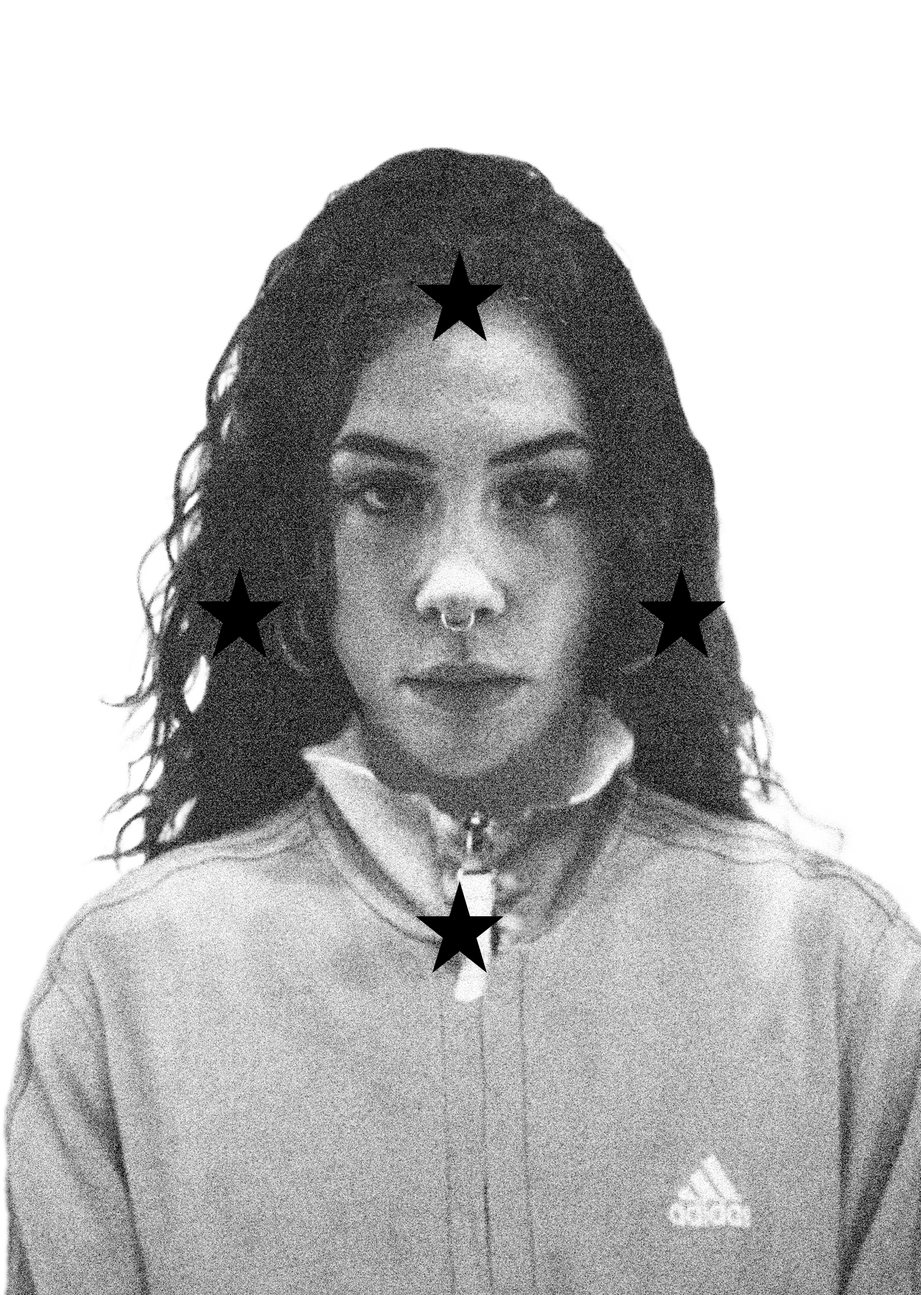
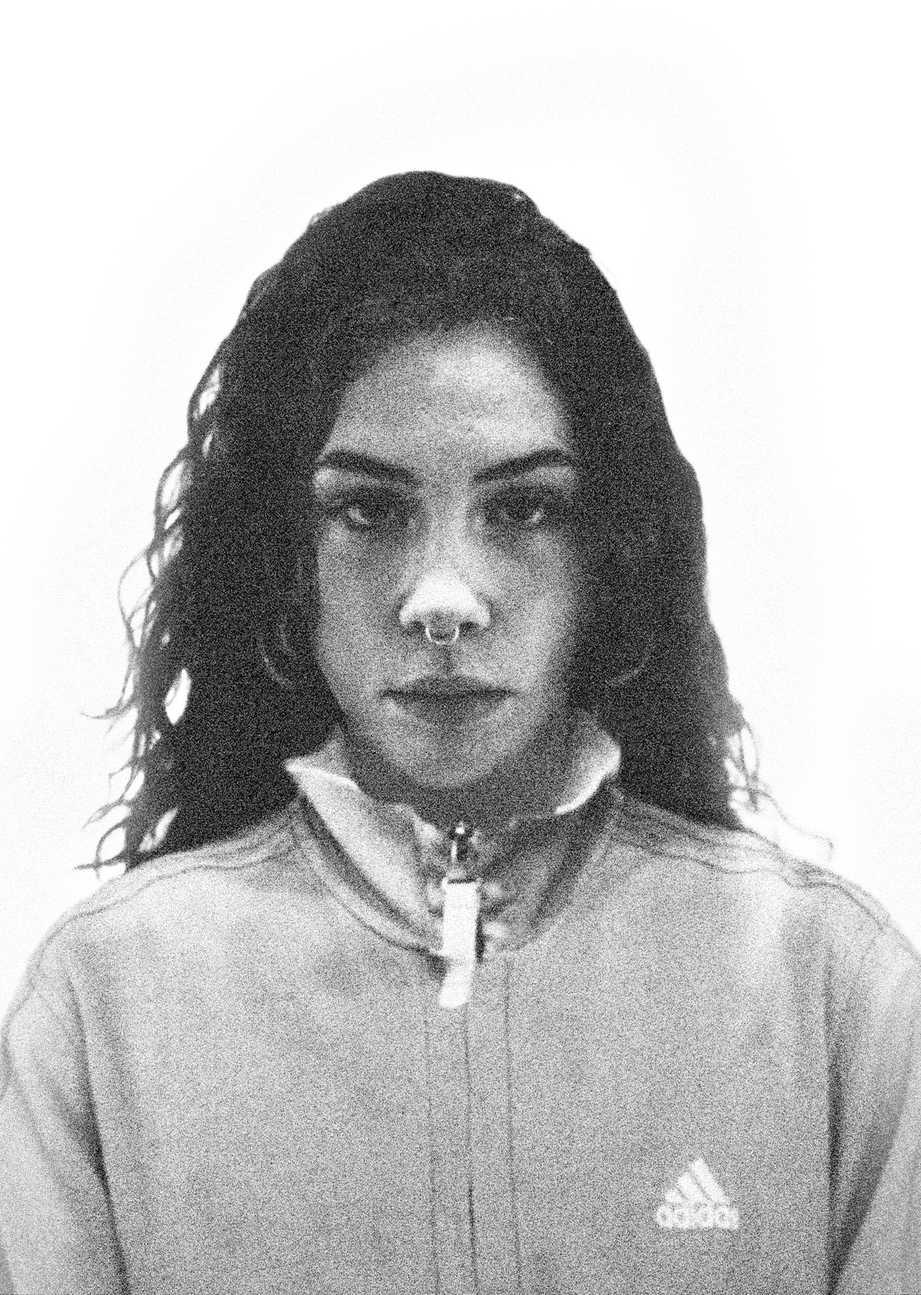
arreglos

diff --git a/js/galeria-3d.js b/js/galeria-3d.js
@@ -57,6 +57,35 @@ const ZOOM_RAMP_MS = 2600;      // dura lo mismo que el spin = coordinados
  
 /* ── Texto de presentación ── */
 const PRESENT_FALLBACK_MS = 15000;  // si la galería falla, el texto aparece igualmente a los 15 s
+
+/* ── Intro: solo se anima la primera vez de cada sesión ──
+   Si ya la viste (y vuelves a la home), todo aparece directamente, sin animación. */
+const INTRO_KEY = "introSeen";
+let SKIP_INTRO = false;
+
+/* Si la página se ha RECARGADO, la intro se repite (y el zoom vuelve al de la intro).
+   Solo se salta cuando se vuelve a la home navegando desde otra página. */
+const navEntry = performance.getEntriesByType("navigation")[0];
+const isReload = navEntry ? navEntry.type === "reload" : false;
+
+try {
+  if (isReload) {
+    sessionStorage.removeItem(INTRO_KEY);
+    sessionStorage.removeItem("galleryZoom");
+  }
+  SKIP_INTRO = sessionStorage.getItem(INTRO_KEY) === "1";
+} catch (e) {}
+
+/* ── Zoom: se recuerda donde lo dejó el usuario al navegar por otras páginas ── */
+const ZOOM_KEY = "galleryZoom";
+const ZOOM_MIN = 0.6;
+const ZOOM_MAX = 1.4;
+let SAVED_ZOOM = null;
+try {
+  const z = parseFloat(sessionStorage.getItem(ZOOM_KEY));
+  if (Number.isFinite(z)) SAVED_ZOOM = Math.min(Math.max(z, ZOOM_MIN), ZOOM_MAX);
+} catch (e) {}
+const RESTORE_ZOOM = SAVED_ZOOM !== null ? SAVED_ZOOM : ZOOM_IN_TO;   // zoom con el que se vuelve a la home
  
 /* ───────────────────────────────────────────────
    3. ELEMENTOS
@@ -72,13 +101,19 @@ const cursorStyle = document.createElement("style");
 cursorStyle.textContent = `#c { cursor: none !important; }`;
 document.head.appendChild(cursorStyle);
  
-/* Muestra el texto de presentación (la clase .visible se define en el CSS) */
+/* Revela todo tras el zoom: texto de presentación + header + footer.
+   La clase "intro-done" en <body> es la que activa el CSS. */
 function showPresentation() {
+  document.body.classList.add("intro-done");
   if (presentSection) presentSection.classList.add("visible");
+  try { sessionStorage.setItem(INTRO_KEY, "1"); } catch (e) {}   // recordamos que ya se vio
 }
  
 /* Red de seguridad: pase lo que pase, el texto acaba apareciendo */
 setTimeout(showPresentation, PRESENT_FALLBACK_MS);
+
+/* Si ya se vio la intro en esta sesión, mostramos todo ya, sin esperar a la galería */
+if (SKIP_INTRO) showPresentation();
  
 /* ───────────────────────────────────────────────
    4. OVERLAY
@@ -123,8 +158,8 @@ scene.add(group);
 /* ───────────────────────────────────────────────
    7. RESIZE
    ─────────────────────────────────────────────── */
-let zoom = ZOOM_IN_FROM;
-let zoomTarget = ZOOM_IN_FROM;
+let zoom = SKIP_INTRO ? RESTORE_ZOOM : ZOOM_IN_FROM;
+let zoomTarget = zoom;
  
 function resize() {
   const w = window.innerWidth;
@@ -461,7 +496,8 @@ canvas.addEventListener(
   e => {
     if (opened || !ready) return;
     e.preventDefault();
-    zoomTarget = THREE.MathUtils.clamp(zoomTarget + e.deltaY * 0.001, 0.6, 1.4);
+    zoomTarget = THREE.MathUtils.clamp(zoomTarget + e.deltaY * 0.001, ZOOM_MIN, ZOOM_MAX);
+    try { sessionStorage.setItem(ZOOM_KEY, String(zoomTarget)); } catch (err) {}   // lo recordamos
   },
   { passive: false }
 );
@@ -511,12 +547,12 @@ function createCard(img, i) {
     fullUrl: data.src,      // calidad completa (solo al hacer clic)
     base: new THREE.Vector3(CARD_H * aspect, CARD_H, 1),
     s: 1,
-    spawnStart: performance.now(),
+    spawnStart: performance.now() - (SKIP_INTRO ? SPAWN_FADE_MS : 0),   // sin fade si se salta la intro
     spawned: true,
     posY: pos.y
   };
  
-  mesh.position.y = pos.y - SPAWN_RISE;
+  mesh.position.y = SKIP_INTRO ? pos.y : pos.y - SPAWN_RISE;
  
   mesh.scale.copy(mesh.userData.base);
  
@@ -577,26 +613,35 @@ async function loadGallery() {
     window.__preloader.markImagesReady();
   }
  
-  // 2. Crear tarjetas UNA A UNA
+  // 2. Crear tarjetas (una a una en la primera visita; todas a la vez si se salta la intro)
   for (let i = 0; i < COUNT; i++) {
     const img = images[i];
     if (img) createCard(img, i);
- 
-    if (i < COUNT - 1) {
+
+    if (!SKIP_INTRO && i < COUNT - 1) {
       await new Promise(r => setTimeout(r, SPAWN_INTERVAL));
     }
   }
- 
-  // 3. Esperar al fade de la última tarjeta
-  await new Promise(r => setTimeout(r, SPAWN_FADE_MS));
- 
-  // 4. Activar el giro y la rampa de zoom
-  readyAt = performance.now();
-  zoomRampActive = true;
-  zoomRampStart = performance.now();
-  zoomTarget = ZOOM_IN_TO;
+
+  // 3. Esperar al fade de la última tarjeta (solo en la primera visita)
+  if (!SKIP_INTRO) {
+    await new Promise(r => setTimeout(r, SPAWN_FADE_MS));
+  }
+
+  // 4. Activar el giro (y la rampa de zoom en la primera visita)
+  if (SKIP_INTRO) {
+    readyAt = performance.now() - SPIN_RAMP_MS;   // giro ya a velocidad completa
+    zoomRampActive = false;
+    zoom = zoomTarget = RESTORE_ZOOM;
+    camera.position.z = camera.userData.baseZ * zoom;
+  } else {
+    readyAt = performance.now();
+    zoomRampActive = true;
+    zoomRampStart = performance.now();
+    zoomTarget = ZOOM_IN_TO;
+  }
   ready = true;
- 
+
   // 5. Restaurar el cursor: quitamos la regla "none" y ponemos la adecuada
   cursorStyle.textContent = `
     #c { cursor: default !important; }

diff --git a/css/home.css b/css/home.css
@@ -298,9 +298,6 @@ nav {
   /* position: absolute; */
   padding: 10rem 0rem;
   height: 100dvh;
-  opacity: 0;
-  transform: translateY(20px);
-  transition: opacity 1.2s ease, transform 1.2s ease;
 }
 
 .presentacion {
@@ -321,15 +318,46 @@ nav {
 }
 
 
-.section-present.visible {
+/* Oculto hasta que termina el zoom */
+header,
+footer,
+.section-present {
+  opacity: 0;
+  visibility: hidden;
+  transition: opacity 1.2s ease, visibility 0s linear 1.2s;
+}
+
+.section-present {
+  transform: translateY(20px);
+  transition: opacity 1.2s ease, transform 1.2s ease, visibility 0s linear 1.2s;
+}
+
+/* Visible tras el zoom */
+body.intro-done header,
+body.intro-done footer,
+body.intro-done .section-present {
   opacity: 1;
+  visibility: visible;
+  transition: opacity 1.2s ease, transform 1.2s ease, visibility 0s;
+}
+
+body.intro-done .section-present {
   transform: none;
 }
 
 @media (prefers-reduced-motion: reduce) {
-  .section-present { transition: none; transform: none; }
+  header, footer, .section-present { transition: none !important; transform: none !important; }
 }
 
+/* Vuelta a la home: todo visible desde el primer pintado, sin animar */
+html.skip-intro header,
+html.skip-intro footer,
+html.skip-intro .section-present {
+  opacity: 1 !important;
+  visibility: visible !important;
+  transform: none !important;
+  transition: none !important;
+}
 
 /* Split Text */
 .split {
